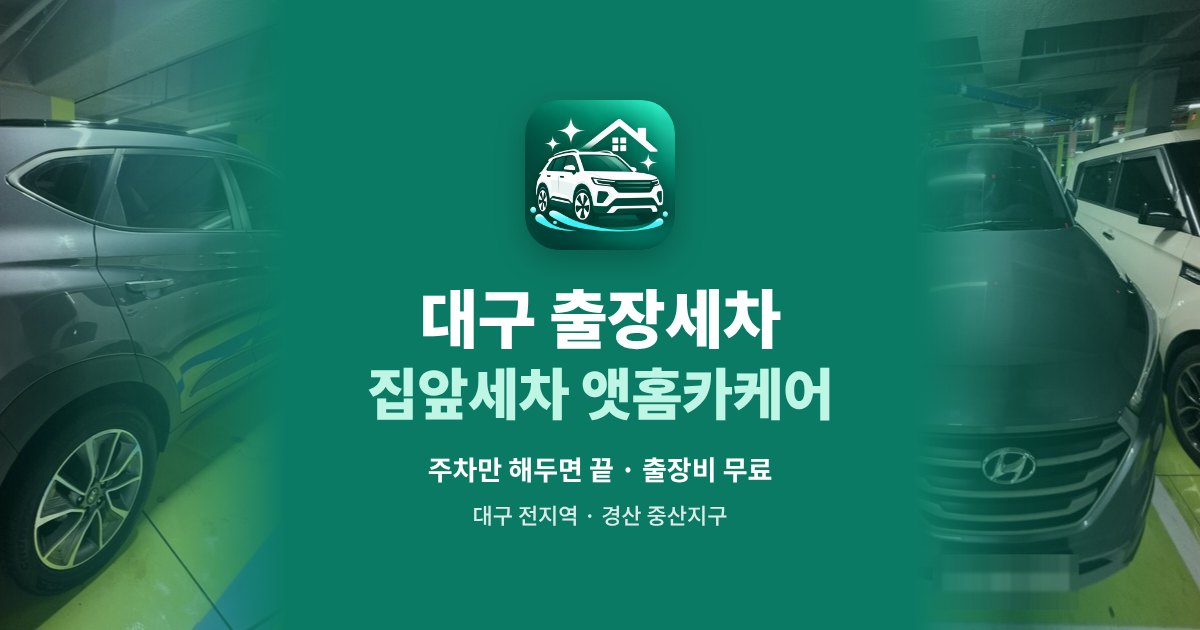
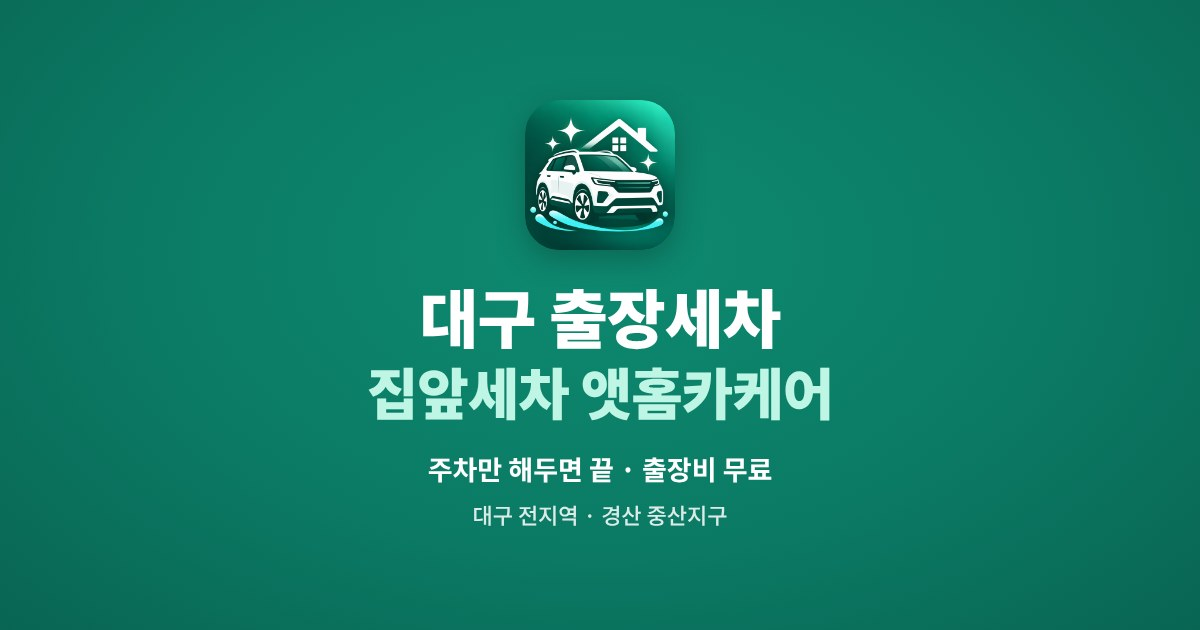
대표 이미지를 사진 없이 초록 바탕만으로 단순하게
Claude-Session: https://claude.ai/code/session_01L31QNhLyXiyhuDExWVgy3E

diff --git a/index.html b/index.html
@@ -17,7 +17,7 @@
   <meta property="og:title" content="대구·경산 출장세차·월세차 | 집앞세차 앳홈카케어" />
   <meta property="og:description" content="아파트 주차장으로 찾아가는 출장세차. 외부·실내 세차와 월 2회·4회 월세차, 출장비 무료·비대면 이용 가능. 대구·경산 전지역." />
   <meta property="og:url" content="https://athomecarcare.kr/" />
-  <meta property="og:image" content="https://athomecarcare.kr/assets/og-image-sq.jpg" />
+  <meta property="og:image" content="https://athomecarcare.kr/assets/og-image-green.jpg" />
   <meta property="og:image:width" content="1200" />
   <meta property="og:image:height" content="630" />
   <meta name="twitter:card" content="summary_large_image" />
@@ -29,7 +29,7 @@
   <title>대구·경산 출장세차·월세차 | 집앞세차 앳홈카케어</title>
   <script type="application/ld+json">
   {"@context":"https://schema.org","@type":"AutoWash","name":"집앞세차 앳홈카케어","alternateName":["앳홈카케어","At Home Car Care"],
-   "url":"https://athomecarcare.kr/","image":"https://athomecarcare.kr/assets/og-image-sq.jpg","logo":"https://athomecarcare.kr/icons/icon-512.png",
+   "url":"https://athomecarcare.kr/","image":"https://athomecarcare.kr/assets/og-image-green.jpg","logo":"https://athomecarcare.kr/icons/icon-512.png",
    "description":"대구·경산 전지역 아파트 출장세차(방문세차). 출장비 무료, 외부세차·외부+내부세차·월세차.",
    "priceRange":"₩28,000~","currenciesAccepted":"KRW",
    "address":{"@type":"PostalAddress","addressLocality":"대구광역시","addressCountry":"KR"},

diff --git a/price.html b/price.html
@@ -11,7 +11,7 @@
 <meta property="og:title" content="대구 출장세차 가격표 | 집앞세차 앳홈카케어" />
 <meta property="og:description" content="외부세차 28,000원부터 · 월세차 · 추가 옵션 · 출장비 무료" />
 <meta property="og:url" content="https://athomecarcare.kr/price.html" />
-<meta property="og:image" content="https://athomecarcare.kr/assets/og-image-sq.jpg" />
+<meta property="og:image" content="https://athomecarcare.kr/assets/og-image-green.jpg" />
 <meta name="twitter:card" content="summary_large_image" />
 <meta name="theme-color" content="#087C68" />
 <link rel="icon" href="icons/icon-192.png" />
